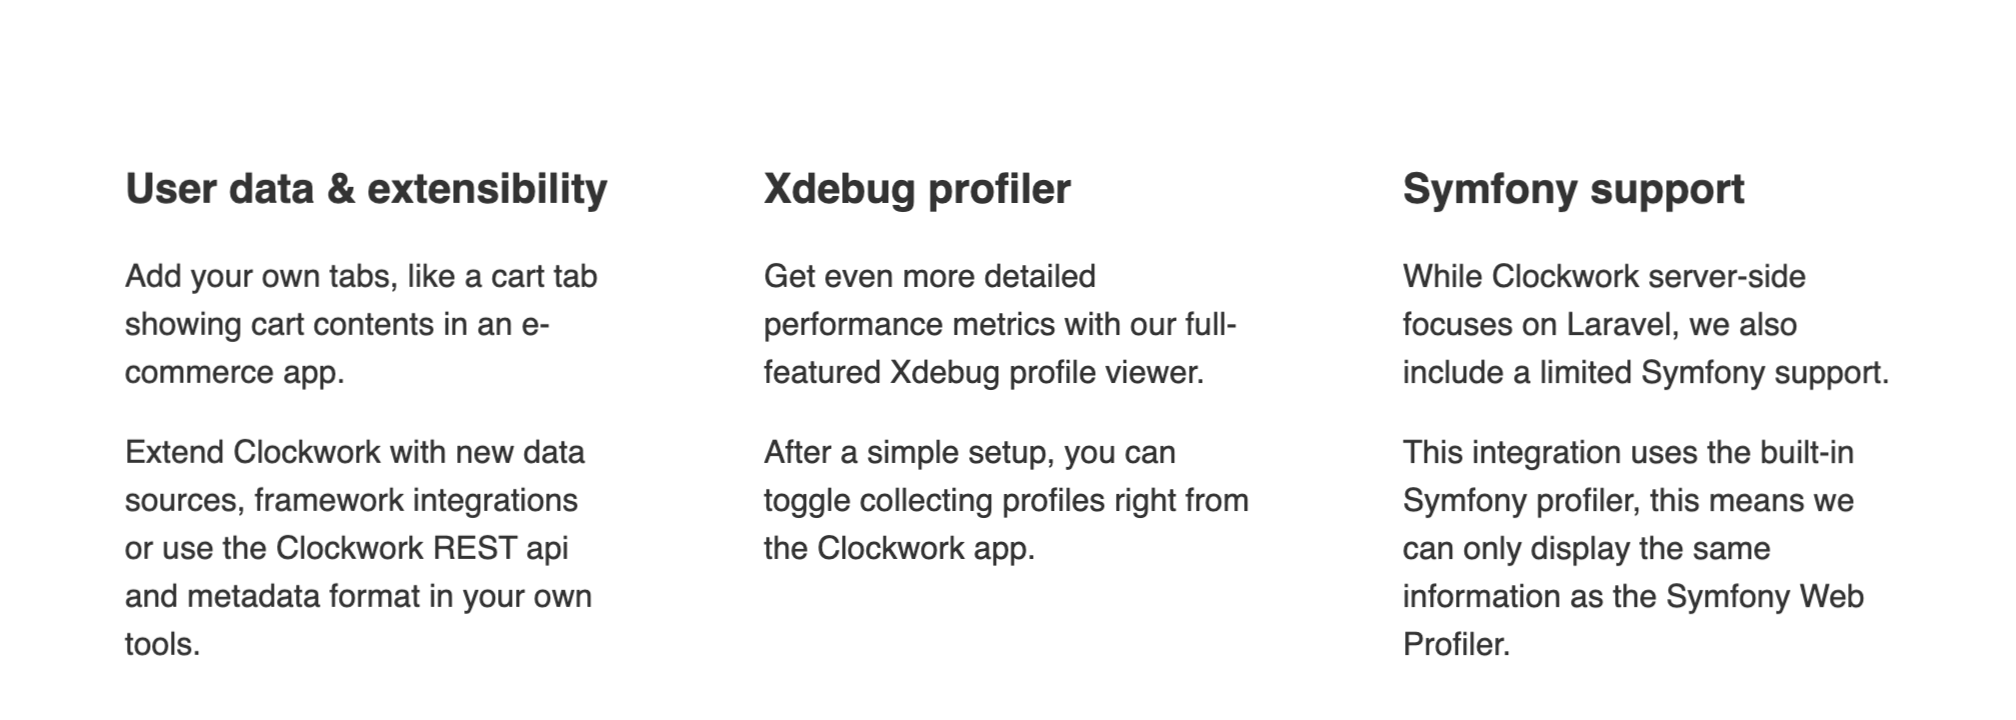
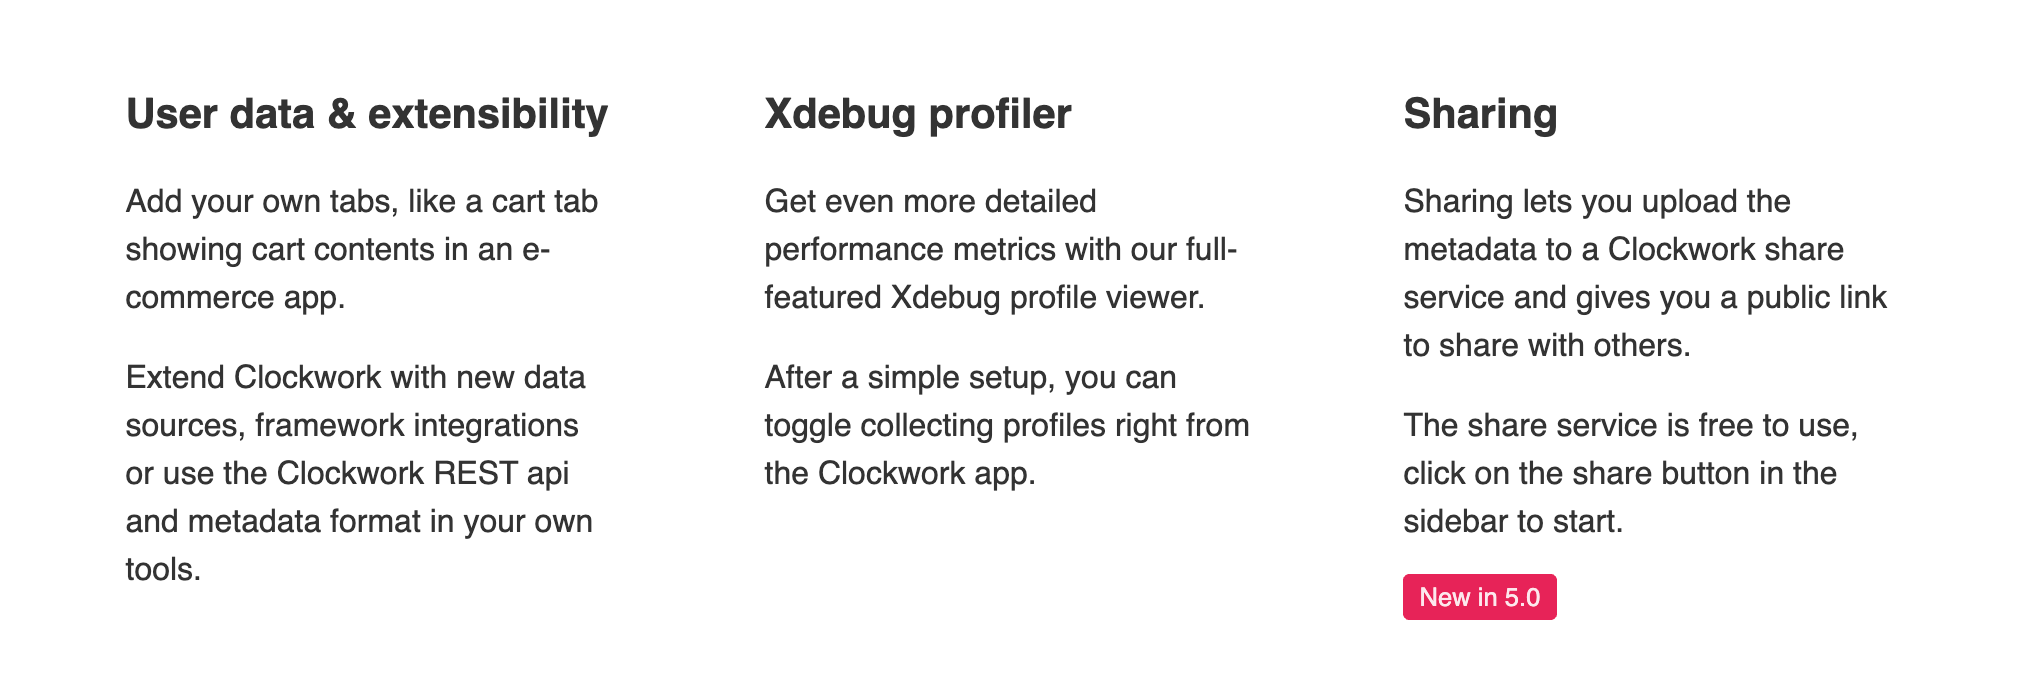
Updated readme for 5.0.

diff --git a/README.md b/README.md
@@ -28,27 +28,27 @@
 	<a href="https://underground.works/clockwork">
 		<img width="100%" src="https://github.com/itsgoingd/clockwork/raw/master/.github/assets/features-6.png">
 	</a>
+	<a href="https://underground.works/clockwork">
+		<img width="100%" src="https://github.com/itsgoingd/clockwork/raw/master/.github/assets/features-7.png">
+	</a>
+	<a href="https://underground.works/clockwork">
+		<img width="100%" src="https://github.com/itsgoingd/clockwork/raw/master/.github/assets/features-8.png">
+	</a>
 </p>
 
 ### Installation
 
-Install the Clockwork library via Composer.
+Install the Clockwork library via [Composer](https://getcomposer.org/).
 
 ```
 $ composer require itsgoingd/clockwork
-```
-
-Alternative installation as a dev-dependency:
-
-```
-$ composer require itsgoingd/clockwork --dev
 ```
 
 Congratulations, you are done! To enable more features like commands or queue jobs profiling, publish the configuration file via the `vendor:publish` Artisan command.
 
 **Note:** If you are using the Laravel route cache, you will need to refresh it using the route:cache Artisan command.
 
-Read more about other integrations on the [Clockwork website](https://underground.works/clockwork).
+Read [full installation instructions](https://underground.works/clockwork/#docs-installation) on the Clockwork website.
 
 ### Features
 
@@ -62,18 +62,36 @@ We collect a whole bunch of useful data by default, but you can enable more feat
 
 Some features might allow for advanced options, eg. for database queries you can set a slow query threshold or enable detecting of duplicate (N+1) queries. Check out the config file to see all what Clockwork can do.
 
+There are several options that allow you to choose for which requests Clockwork is active.
+
+On-demand mode will collect data only when Clockwork app is open. You can even specify a secret to be set in the app settings to collect request. Errors only will record only requests ending with 4xx and 5xx responses. Slow only will collect only requests with responses above the set slow threshold. You can also filter the collected and recorded requests by a custom closure. CORS pre-flight requests will not be collected by default.
+
 New in Clockwork 4.1, artisan commands, queue jobs and tests can now also be collected, you need to enable this in the config file.
 
 Clockwork also collects stack traces for data like log messages or database queries. Last 10 frames of the trace are collected by default. You can change the frames limit or disable this feature in the configuration file.
 
 #### Viewing data
 
-Clockwork app is available as a browser extension:
+##### Web interface
 
-- [Chrome](https://chrome.google.com/webstore/detail/clockwork/dmggabnehkmmfmdffgajcflpdjlnoemp)
-- [Firefox](https://addons.mozilla.org/en-US/firefox/addon/clockwork-dev-tools/)
+Open `your.app/clockwork` to view and interact with the collected data.
 
-The server-side component also includes a full copy of the Clockwork app available at `your.app/__clockwork`.
+The app will show all executed requests, which is useful when the request is not made by browser, but for example a mobile application you are developing an API for.
+
+##### Browser extension
+
+A browser dev tools extension is also available for Chrome and Firefox:
+
+- [Chrome Web Store](https://chrome.google.com/webstore/detail/clockwork/dmggabnehkmmfmdffgajcflpdjlnoemp)
+- [Firefox Addons](https://addons.mozilla.org/en-US/firefox/addon/clockwork-dev-tools/)
+
+##### Toolbar
+
+Clockwork now gives you an option to show basic request information in the form of a toolbar in your app.
+
+The toolbar is fully rendered client-side and requires installing a tiny javascript library.
+
+[Learn more](https://underground.works/clockwork/#docs-viewing-data) on the Clockwork website.
 
 #### Logging
 
@@ -99,26 +117,22 @@ clock()->info("User {$username} logged in!")
 
 Timeline gives you a visual representation of your application runtime.
 
-Clockwork will automatically add some default events, but you can also add custom ones.
-
-To add a custom event to the timeline, you'll need to start an event first:
+To add an event to the timeline - start it with a description, execute the tracked code and finish the event. A fluent api is available to further configure the event.
 
 ```php
-clock()->event("Loading user's latest tweets via Twitter API")->begin()
+// using timeline api with begin/end and fluent configuration
+clock()->event('Importing tweets')->color('purple')->begin();
+    ...
+clock()->event('Importing tweets')->end();
 ```
 
-After executing the traced block of code, you can end the event, using it's unique name.
+Alternatively you can execute the tracked code block as a closure. You can also choose to use an array based configuration instead of the fluent api.
 
 ```php
-clock()->event("Loading user's latest tweets via Twitter API")->end()
-```
-
-Or simply wrap the traced code into a closure:
-
-```php
-clock()->event("Loading user's latest tweets via Twitter API")->run(function () {
-	...
-})
+// using timeline api with run and array-based configuration
+clock()->event('Updating cache', [ 'color' => 'green' ])->run(function () {
+    ...
+});
 ```
 
 Read more about available features on the [Clockwork website](https://underground.works/clockwork).

diff --git a/CHANGELOG.md b/CHANGELOG.md
@@ -27,7 +27,7 @@
 - improved handling of corrupted index records in file storage
 - improved cleaned up the code-base, added and improved comments, use modern php features
 - removed Laravel total, initalization, boot and run timeline events
-- remvoed legacy clockwork.controller events
+- removed legacy clockwork.controller events
 - removed duplicate file/line information from collected metadata
 - fixed authentication route not being registered when web ui is disabled
 - fixed database queries not being collected for queue jobs
